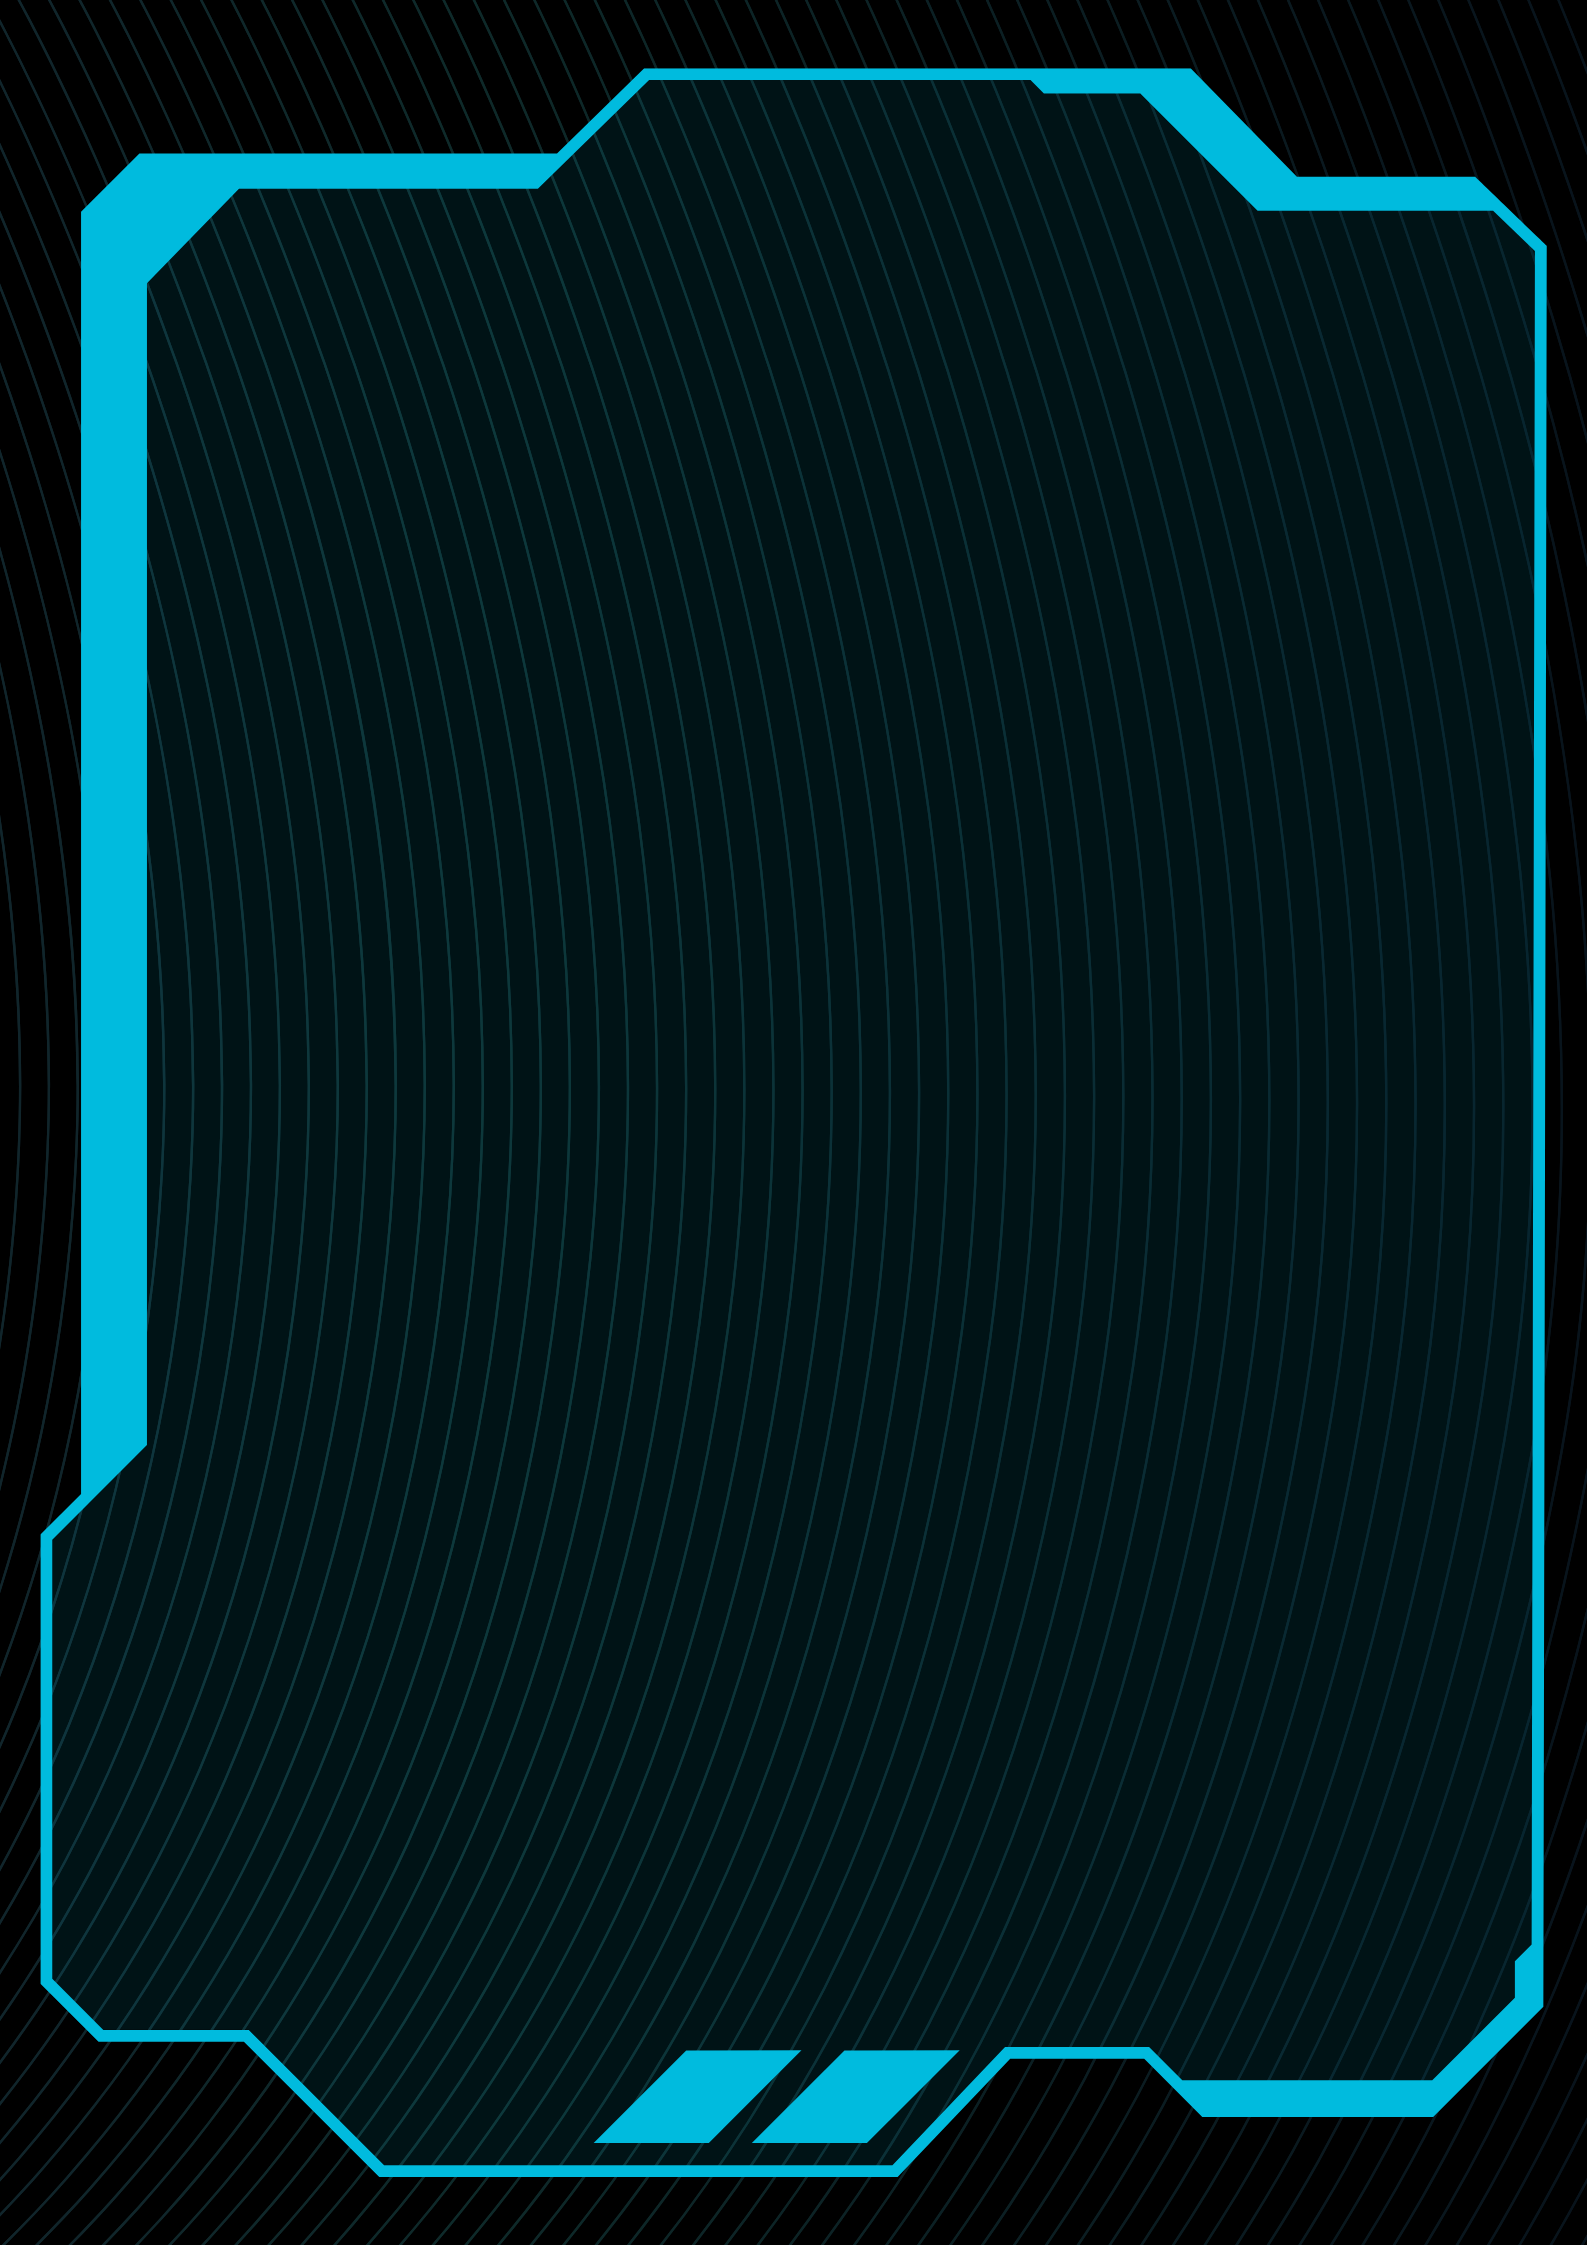
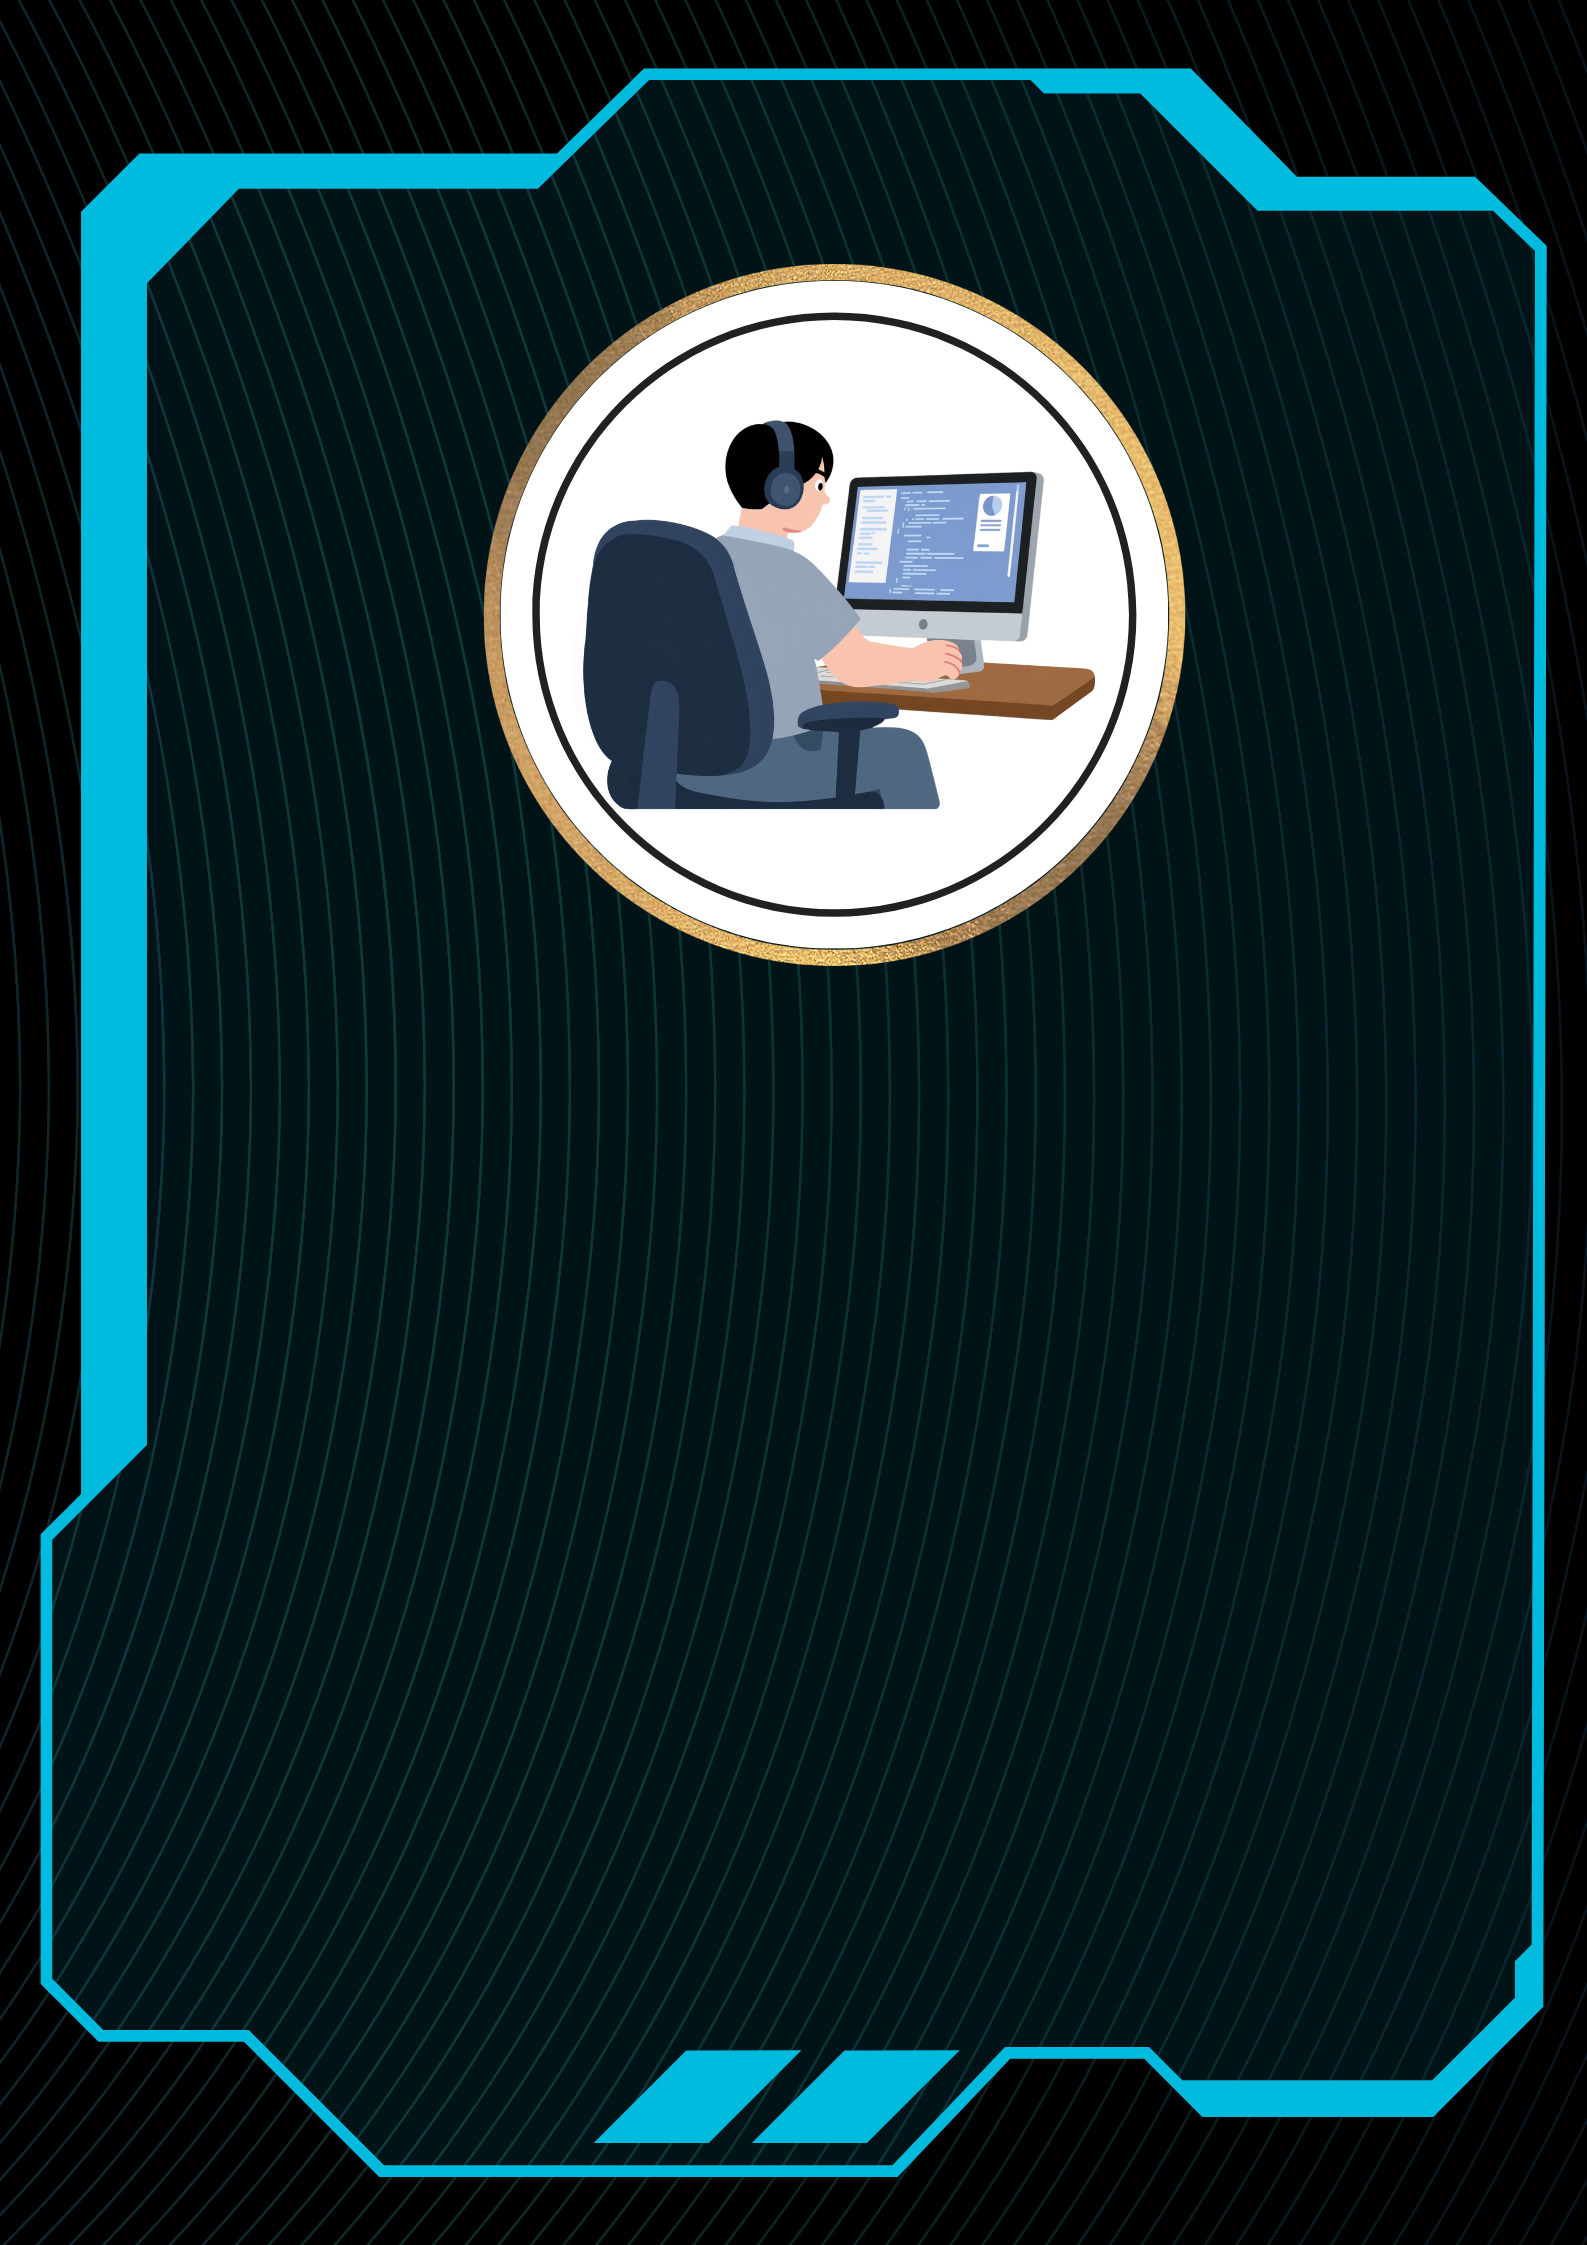
feat: complete members page with responsive member profiles

Changed region(s): [[0.2779, 0.0935, 0.7719, 0.4365]]

diff --git a/src/data/members.js b/src/data/members.js
@@ -1,3 +1,5 @@
+//shortDescription length should not be greater than 104 characters including spaces and special characters.
+
 export const members = [
   {
     id: 1,
@@ -5,16 +7,8 @@ export const members = [
     batch: '2024-28',
     shortDescription: "Full-stack developer building scalable web apps and strengthening DSA through consistent problem solving",
     linkedIn: "https://www.linkedin.com/in/aditya-singh-82a341320/",
-    bg: '/profileCards/AdityaSinghProfileCard.png'
-  },
-  {
-    id: 3,
-    name: "Bipin Pal",
-    batch: '2024-28',
-    shortDescription: "Computer Science student passionate about AI, Machine Learning, Robotics, and Full Stack Development, with an interest in building real-world projects.",
-
-    linkedIn: "https://www.linkedin.com/in/bipinpal12",
-    bg: '/profileCards/BipinProfileCard.png',
+    bg: '/profileCards/AdityaSinghProfileCard.png',
+    profileImg: '/images/members/aditya.jpg'
   },
   {
     id: 5,
@@ -22,7 +16,18 @@ export const members = [
     batch: '2024-28',
     shortDescription: "Focused on learning Data Structures and improving problem-solving skills",
     linkedIn: "#",
-    bg: '/profileCards/ProfileCard.png',
+    bg: '/images/cardBg.png',
+    profileImg: '/images/members/aditi.jpg'
+  },
+  {
+    id: 3,
+    name: "Bipin Pal",
+    batch: '2024-28',
+    shortDescription: "Computer Science student passionate about AI, Machine Learning, Robotics, and Full-Stack Development.....",
+
+    linkedIn: "https://www.linkedin.com/in/bipinpal12",
+    bg: '/images/cardBg.png',
+    profileImg: '/images/members/bipin.jpg'
   },
   {
     id: 6,
@@ -30,7 +35,8 @@ export const members = [
     batch: '2024-28',
     shortDescription: "Exploring full-stack, embedded systems, and Web3 through projects and open-source",
     linkedIn: "#",
-    bg: '/profileCards/ProfileCard.png',
+    bg: '/images/cardBg.png',
+    profileImg: '/images/members/shagun.jpg'
   },
   {
     id: 2,
@@ -38,74 +44,83 @@ export const members = [
     batch: '2024-28',
     shortDescription: "Focused on building clean, responsive, and user-friendly web interfaces",
     linkedIn: "https://www.linkedin.com/in/raj-shekhar-patel-332782329/",
-    bg: '/profileCards/ProfileCard.png',
+     bg: '/images/cardBg.png',
+     profileImg: '/images/members/raj.jpg'
   },
 
   {
-    id: 4,
     name: "Priyanshu Jaiswal",
     batch: '2024-28',
     shortDescription: "Data Science and ML undergrad",
     linkedIn: "www.linkedin.com/in/priyanshujaiswal06",
-    bg: '/profileCards/ProfileCard.png',
-  },
-  {
-    name: "Aditya Mishra",
-    batch: '2022-26',
-    shortDescription: " I am passionate about full stack and Generative AI development, with a strong interest in building scalable applications and solving real-world problems.",
-
-    linkedIn: "https://www.linkedin.com/in/aditya-mishra-6b587322b",
-    bg: '/profileCards/ProfileCard.png',
-  },
-  {
-    name: "Sarvesh Pandey",
-    shortDescription: "Cse Undergrad IET Rmlau 2023-27",
-    linkedIn: "https://www.linkedin.com/in/sarveshpandey01/",
-    batch: '2022-26',
-    bg: '/profileCards/ProfileCard.png',
-  },
-  {
-    "name": "Anurag Pasi",
-    batch: '2022-26',
-    "shortDescription": "Software Engineer delivering AI-powered ERP, ML data solutions & business automation using Python, FastAPI, Django & React.",
-
-    "linkedin": "https://www.linkedin.com/in/anurag-pasi-80a138259/",
-    bg: '/profileCards/ProfileCard.png',
-  },
-  {
-    name: "Rajat Pandey",
-    batch: '2022-26',
-    shortDescription: "GATE 2026, Full stack developer, Constructing ERP models .",
-    linkedIn: "https://www.linkedin.com/in/rajat-pandey-661a29248",
-    bg: '/profileCards/ProfileCard.png',
-  },
-  {
-    name: "Shivam Verma",
-    batch: '2022-26',
-    shortDescription: "Passionate about MERN Stack and React Native development, with a focus on building innovative solutions and solving real-world problems.",
-    linkedIn: - "https://www.linkedin.com/in/shivam-verma-91327a293",
-    bg: '/profileCards/ProfileCard.png',
+     bg: '/images/cardBg.png',
+     profileImg: '/images/members/priyanshu.jpg'
   },
   {
     name: "Sachin Pandey",
     batch: '2023 - 27',
     shortDescription: "IT Undergrad Student, Data analyst, transforming numbers into strategic decisions.",
     linkedIn: - "https://www.linkedin.com/in/shivam-verma-91327a293",
-    bg: '/profileCards/ProfileCard.png',
+    bg: '/images/cardBg.png',
+    profileImg: '/images/members/sachin.jpg'
   },
   {
     name: "Kartikey Vishwakarma",
-    shortDescription: "Research Intern @ IIIT Naya Raipur | Full Stack Dev (MERN) | Built govt portals for Ayodhya & Vikash Bhawan | Google Cloud ADK",
+    shortDescription: "Research Intern @ IIIT Naya Raipur | MERN developer building government portals with Google Cloud",
     linkedIn: "https://www.linkedin.com/in/kartikey28",
     batch: '2023-27',
-    bg: '/profileCards/ProfileCard.png',
+    bg: '/images/cardBg.png',
+    profileImg: '/images/members/kartikey.jpg'
   },
   {
     name: "Harikesh",
-    shortDescription: " AI/ML Engineer with proven experience in Data Analytics through 2 internships | Diverse real-world datasets and projects |  Analyzing datasets with 50K+ records.",
+    shortDescription: "AI/ML engineer with internship experience in data analytics, building insights from large datasets.",
     linkedIn: "https://www.linkedin.com/in/harikesh-prajapati-05034027a",
     batch: '2023-27',
-    bg: '/profileCards/ProfileCard.png',
-  }
+    bg: '/images/cardBg.png',
+    profileImg: '/images/members/harikesh.jpg'
+  },
+  {
+    name: "Aditya Mishra",
+    batch: '2022-26',
+    shortDescription: "Passionate about Full-Stack and Generative AI, building scalable applications for real-world problems.",
+
+    linkedIn: "https://www.linkedin.com/in/aditya-mishra-6b587322b",
+     bg: '/images/cardBg.png',
+     profileImg: '/images/members/adityaMishra.jpg'
+  },
+  {
+    name: "Sarvesh Pandey",
+    shortDescription: "Cse Undergrad IET Rmlau 2023-27",
+    linkedIn: "https://www.linkedin.com/in/sarveshpandey01/",
+    batch: '2022-26',
+     bg: '/images/cardBg.png',
+     profileImg: '/images/members/sarvesh.jpg'
+  },
+  {
+    "name": "Anurag Pasi",
+    batch: '2022-26',
+    "shortDescription": "Software engineer building AI-powered ERP, ML solutions, and business automation with Python and React.",
+
+    "linkedin": "https://www.linkedin.com/in/anurag-pasi-80a138259/",
+     bg: '/images/cardBg.png',
+     profileImg: '/images/members/anurag.jpg'
+  },
+  {
+    name: "Rajat Pandey",
+    batch: '2022-26',
+    shortDescription: "GATE 2026, Full stack developer, Constructing ERP models .",
+    linkedIn: "https://www.linkedin.com/in/rajat-pandey-661a29248",
+     bg: '/images/cardBg.png',
+     profileImg: '/images/members/rajat.jpg'
+  },
+  {
+    name: "Shivam Verma",
+    batch: '2022-26',
+    shortDescription: "Passionate about MERN Stack and React Native, building innovative solutions for real-world challenges.",
+    linkedIn: - "https://www.linkedin.com/in/shivam-verma-91327a293",
+     bg: '/images/cardBg.png',
+     profileImg: '/images/members/shivam.jpg'
+  },
 
 ]

diff --git a/src/pages/Members.jsx b/src/pages/Members.jsx
@@ -68,6 +68,9 @@ function Members() {
                       alt="bg"
                       className="absolute inset-0 w-full h-full opacity-90 sm:opacity-70 group-hover:opacity-90 object-contain transition duration-300"
                     />
+                    <div className="absolute top-6 left-15 sm:left-20 sm:top-10 border-2 border-primary rounded-full overflow-hidden h-30 sm:h-32 w-30 sm:w-32">
+                    <img src={member.profileImg}  />
+                    </div>
                     <div className="flex flex-col mt-25 sm:mt-30 ml-3 items-center gap-0 sm:gap-1 z-5">
                       <h1 className='z-5 text-foreground text-xl sm:text-2xl mt-2 sm:mt-0'>{member.name} </h1>
                       <div className='text-primary'>
